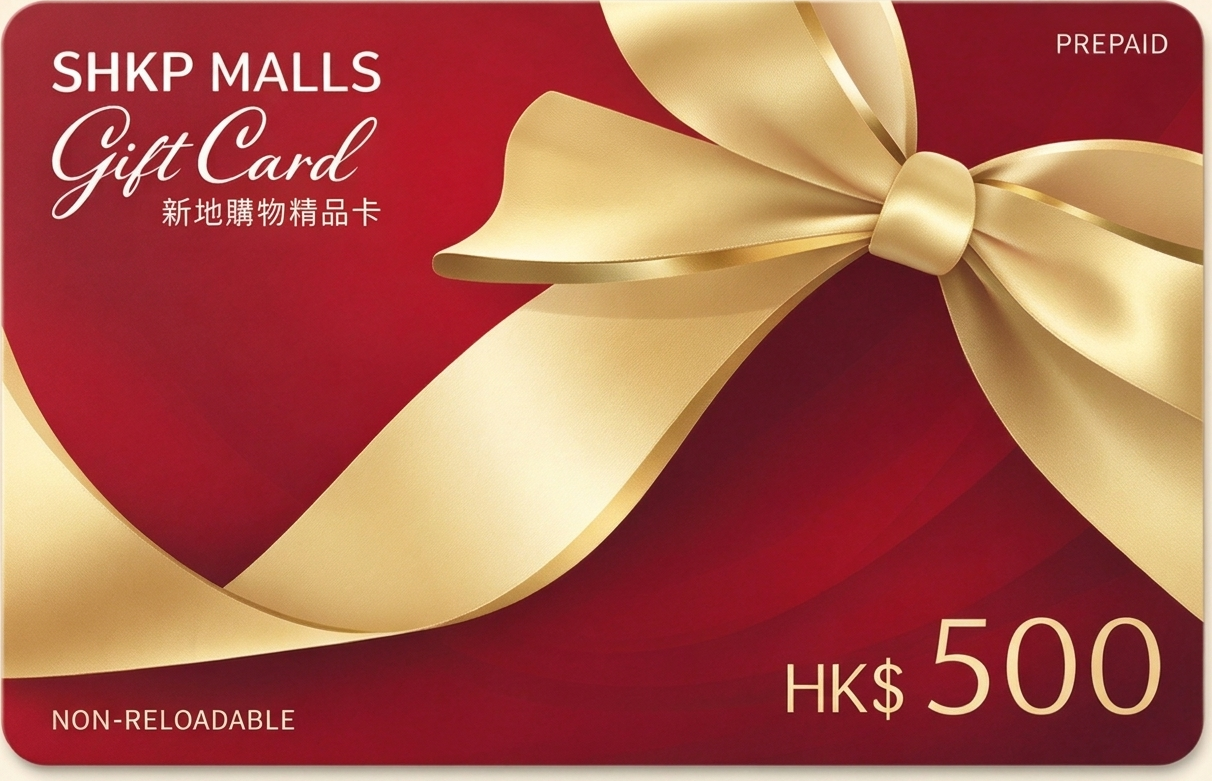
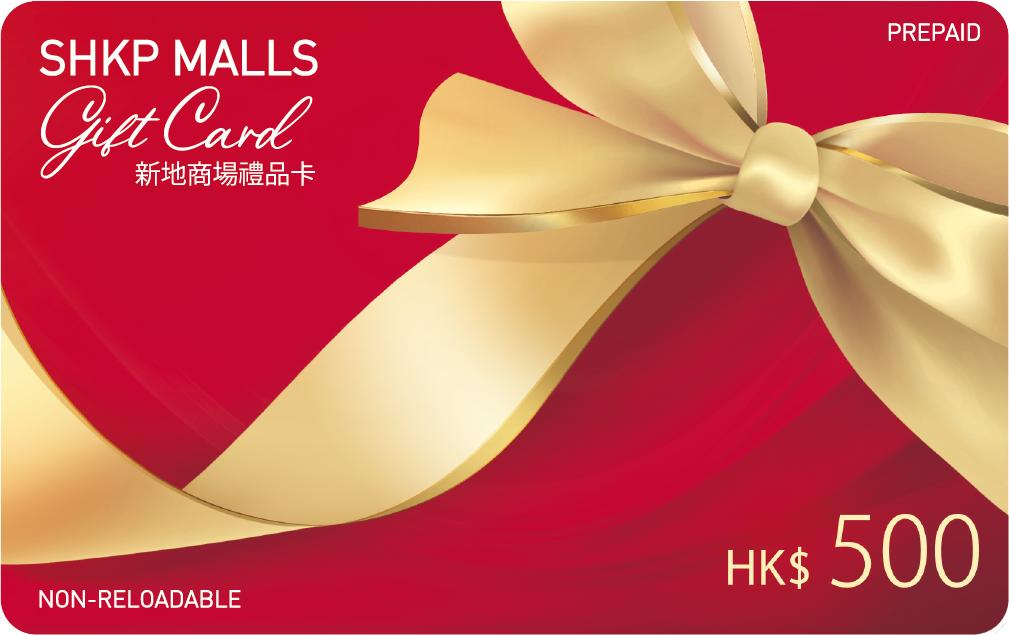
两处修改已完成，编译通过：
1. **桌面版转赠成功**："分享"按钮和祝福语输入框已移除，现仅保留"复制"交易号按钮（列表卡与详情卡均已简化），相关无用分享代码也已清理。
2. **500 卡面**：已更新为您提供的真实红色 HK$500 原图（无留白，"hkd-500.png" 已替换）。

庆祝浮层按面额显示卡面逻辑未变，5 个面额（200/500/1000/5000/8000）均使用了您提供的真实卡面。

由于用户端登录有人机验证，建议您在真实订单环境中确认桌面版转赠成功页面仅剩复制按钮，以及完成瞬间浮层显示的 500 卡面是否显示正确。如果仍有需要调整的地方，欢迎随时告知。我已根据当前信息完成初步修改，请您测试并反馈是否还存在问题，或需进一步深入排查和全面测试。

Emergent-Commit-Key: e04b6e36350b4b9cbe33e217ba4d4fde4145db753180c4a46fa235c24e37318b

diff --git a/frontend/src/pages/MyOrders.jsx b/frontend/src/pages/MyOrders.jsx
@@ -1,10 +1,9 @@
 import { useEffect, useState, useCallback, useRef } from "react";
 import { useSearchParams, useNavigate } from "react-router-dom";
-import { Copy, Package, Check, Gift, Share2, Search, X } from "lucide-react";
+import { Copy, Package, Check, Gift, Search, X } from "lucide-react";
 import { toast } from "sonner";
 import { useApi } from "@/lib/api";
 import { celebrate } from "@/lib/celebrate";
-import { makeGiftShareBlob } from "@/lib/giftShareImage";
 import { useCart } from "@/context/CartContext";
 import { Panel, SubTabs } from "@/pages/account/AccountLayout";
 import { useCurrency } from "@/context/CurrencyContext";
@@ -160,11 +159,8 @@ function OrdersInner() {
     toast.success(tr("已複製"));
   };
 
-  const [shareTarget, setShareTarget] = useState(null);
-  const [shareBusy, setShareBusy] = useState(false);
   const [celebrateInfo, setCelebrateInfo] = useState(null);
   const [query, setQuery] = useState("");
-  const [blessing, setBlessing] = useState("");
 
   const channelOf = (order) => {
     const keys = order?.delivery_info ? Object.values(order.delivery_info).flatMap((f) => Object.keys(f)) : [];
@@ -176,40 +172,6 @@ function OrdersInner() {
     setCelebrateInfo({ msg: tr("禮品卡已轉贈到您的{0}賬戶！", channelOf(order)), img: giftCardImageFor(order) });
     setTimeout(() => setCelebrateInfo(null), 4800);
   };
-
-  useEffect(() => {
-    if (!shareTarget) return;
-    let cancelled = false;
-    (async () => {
-      try {
-        const blob = await makeGiftShareBlob(shareTarget, {
-          brand: `gogo589 · ${tr("禮品卡")}`,
-          sub: tr("轉贈成功 · 交易號"),
-          note: tr("請憑此交易號核銷，並妥善保管"),
-          blessing: (shareTarget.blessing || "").trim(),
-        });
-        if (cancelled || !blob) throw new Error("blob");
-        const file = new File([blob], `giftcard-${shareTarget.trade_no}.png`, { type: "image/png" });
-        if (navigator.canShare && navigator.canShare({ files: [file] })) {
-          await navigator.share({ files: [file], title: tr("禮品卡交易號"), text: tr("您的禮品卡交易號：") + shareTarget.trade_no });
-        } else {
-          const url = URL.createObjectURL(blob);
-          const a = document.createElement("a");
-          a.href = url;
-          a.download = file.name;
-          a.click();
-          setTimeout(() => URL.revokeObjectURL(url), 1000);
-          toast.success(tr("圖片已儲存，可轉發給收禮人"));
-        }
-      } catch (e) {
-        if (!/AbortError/.test(e?.name || "")) toast.error(tr("生成圖片失敗，請重試"));
-      }
-      if (!cancelled) { setShareBusy(false); setShareTarget(null); }
-    })();
-    return () => { cancelled = true; };
-  }, [shareTarget]);
-
-  const shareGift = (g, blessingText) => { setShareBusy(true); setShareTarget({ ...g, blessing: blessingText || "" }); };
 
   const payNow = async (order) => {
     setPaying(true);
@@ -289,10 +251,7 @@ function OrdersInner() {
                       {o.gift_trade_nos.map((g, i) => (
                         <div key={i} className="mt-2 flex items-center justify-between gap-2 rounded-xl bg-white/70 px-2.5 py-2">
                           <span className="font-mono text-base md:text-lg tracking-wider text-slate-800 break-all" data-testid={`order-gift-trade-no-${o.id}-${i}`}>{g.trade_no}</span>
-                          <div className="flex shrink-0 items-center gap-1.5">
-                          <button onClick={() => copy(g.trade_no)} data-testid={`order-gift-trade-copy-${o.id}-${i}`} className="inline-flex items-center gap-1 text-orange-500 text-sm font-semibold hover:text-orange-600"><Copy className="h-4 w-4" />{tr("複製")}</button>
-                          <button onClick={() => shareGift(g)} disabled={shareBusy} data-testid={`order-gift-share-${o.id}-${i}`} className="inline-flex items-center gap-1 text-orange-500 text-sm font-semibold hover:text-orange-600"><Share2 className="h-4 w-4" />{tr("分享")}</button>
-                        </div>
+                          <button onClick={() => copy(g.trade_no)} data-testid={`order-gift-trade-copy-${o.id}-${i}`} className="shrink-0 inline-flex items-center gap-1 text-orange-500 text-sm font-semibold hover:text-orange-600"><Copy className="h-4 w-4" />{tr("複製")}</button>
                         </div>
                       ))}
                     </div>
@@ -373,23 +332,11 @@ function OrdersInner() {
                     <div className="pointer-events-none absolute inset-0 [background-image:radial-gradient(rgba(255,255,255,0.8)_1.5px,transparent_1.5px)] [background-size:15px_15px]" />
                     <div className="relative">
                       <div className="font-cute text-lg text-orange-600 mb-2.5 flex items-center gap-1.5"><span className="inline-flex h-6 w-6 items-center justify-center rounded-full bg-orange-500 text-white shadow-sm"><Gift className="h-3.5 w-3.5" /></span>{tr("轉贈成功 · 交易號")}</div>
-                      <div className="mb-2.5">
-                        <input
-                          data-testid="order-gift-blessing-input"
-                          value={blessing}
-                          onChange={(e) => setBlessing(e.target.value.slice(0, 40))}
-                          placeholder={tr("寫句祝福語一起送出（選填）")}
-                          className="w-full h-10 rounded-xl bg-white/80 border border-orange-200 px-3 text-sm outline-none focus:ring-2 focus:ring-orange-300 placeholder:text-slate-400"
-                        />
-                      </div>
                       <div className="space-y-2">
                         {detail.gift_trade_nos.map((g, i) => (
                           <div key={i} className="flex items-center justify-between gap-2 rounded-xl bg-white/70 px-3 py-2.5">
                             <div className="min-w-0"><div className="font-mono text-base tracking-wider text-slate-800 break-all">{g.trade_no}</div><div className="text-[11px] text-slate-500 mt-0.5">{g.product_name} {g.spec_label}</div></div>
-                          <div className="flex shrink-0 items-center gap-1.5">
-                            <button onClick={() => copy(g.trade_no)} className="inline-flex items-center gap-1 rounded-full bg-white px-2.5 py-1.5 text-orange-500 text-xs font-semibold shadow-sm hover:text-orange-600"><Copy className="h-3.5 w-3.5" />{tr("複製")}</button>
-                            <button onClick={() => shareGift(g, blessing)} disabled={shareBusy} data-testid="order-gift-share" className="inline-flex items-center gap-1 rounded-full bg-orange-500 px-2.5 py-1.5 text-white text-xs font-semibold shadow-sm hover:bg-orange-600 disabled:opacity-60"><Share2 className="h-3.5 w-3.5" />{shareBusy ? tr("生成中…") : tr("分享")}</button>
-                          </div>
+                            <button onClick={() => copy(g.trade_no)} data-testid="order-gift-copy" className="shrink-0 inline-flex items-center gap-1 rounded-full bg-orange-500 px-3 py-1.5 text-white text-xs font-semibold shadow-sm hover:bg-orange-600"><Copy className="h-3.5 w-3.5" />{tr("複製")}</button>
                           </div>
                         ))}
                       </div>
